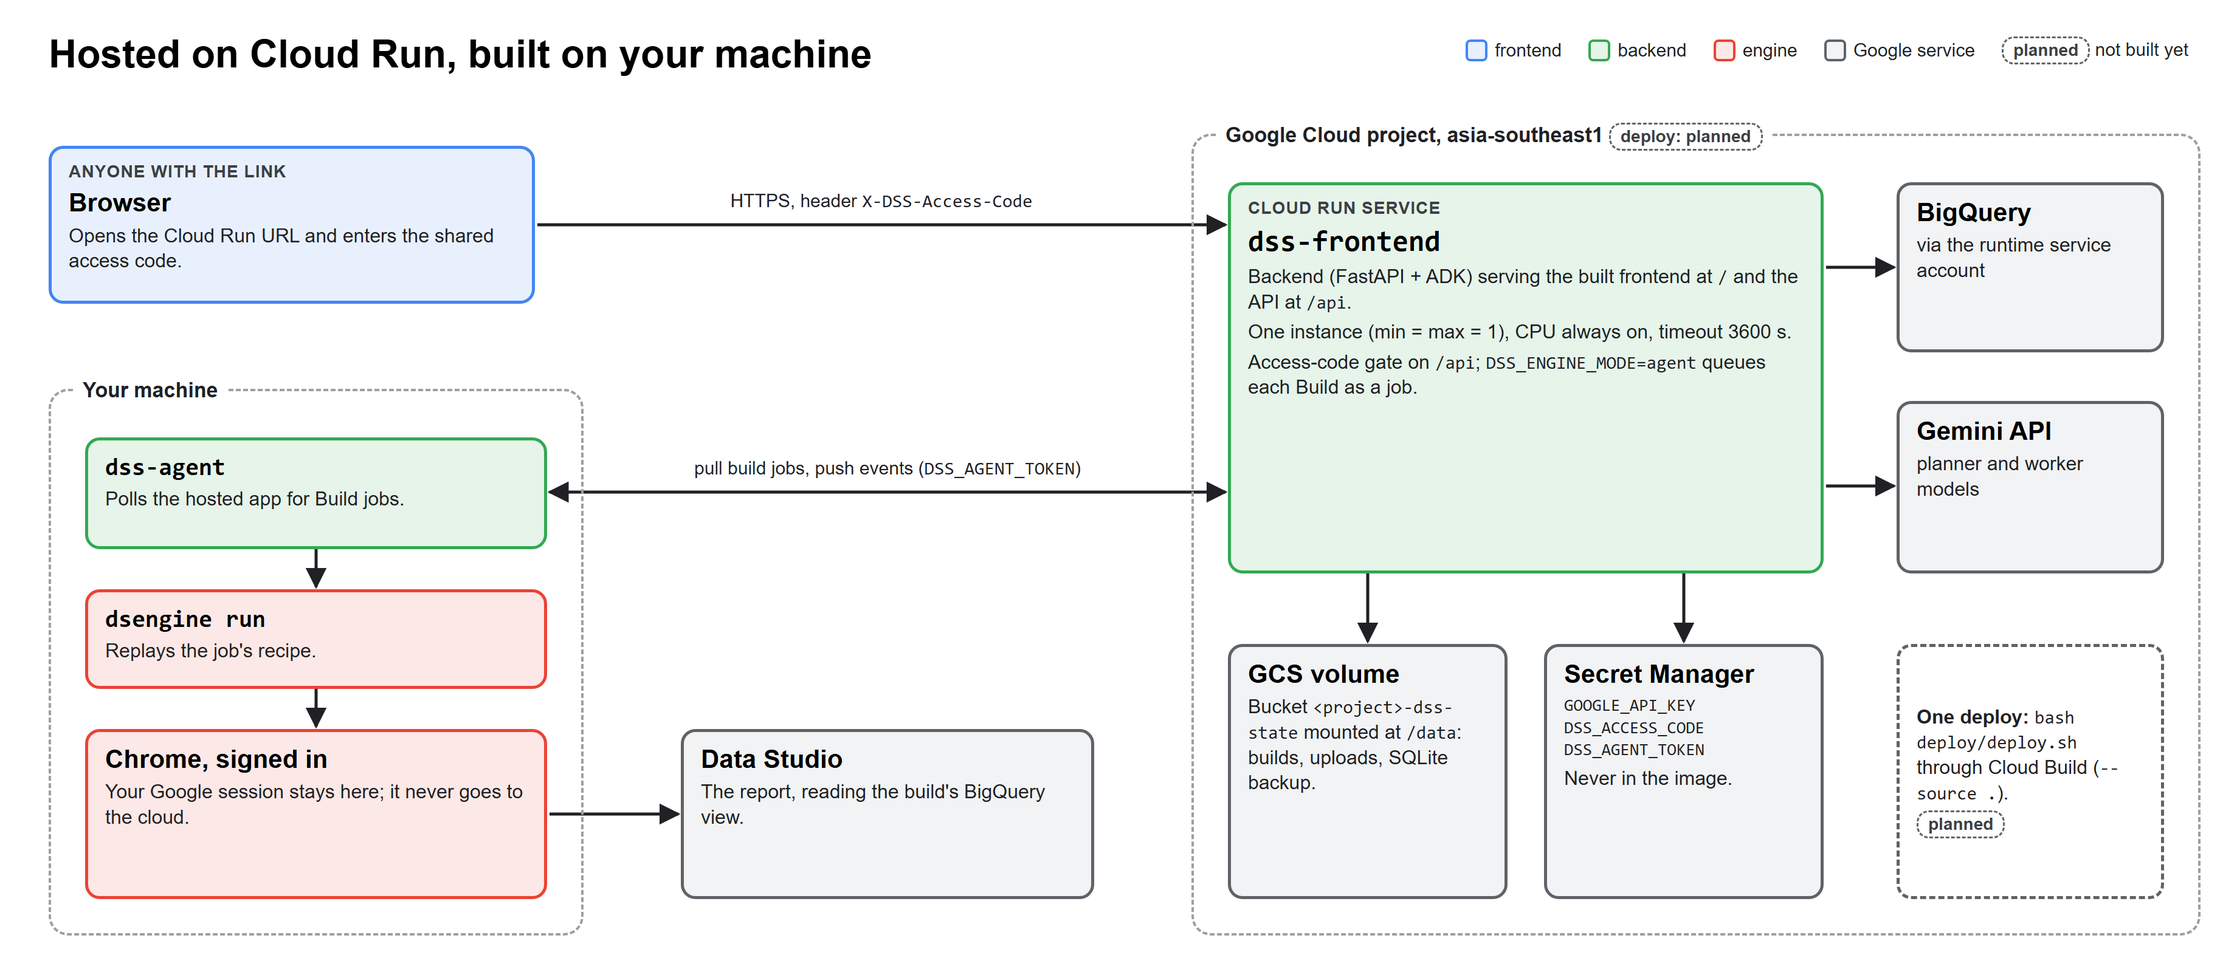
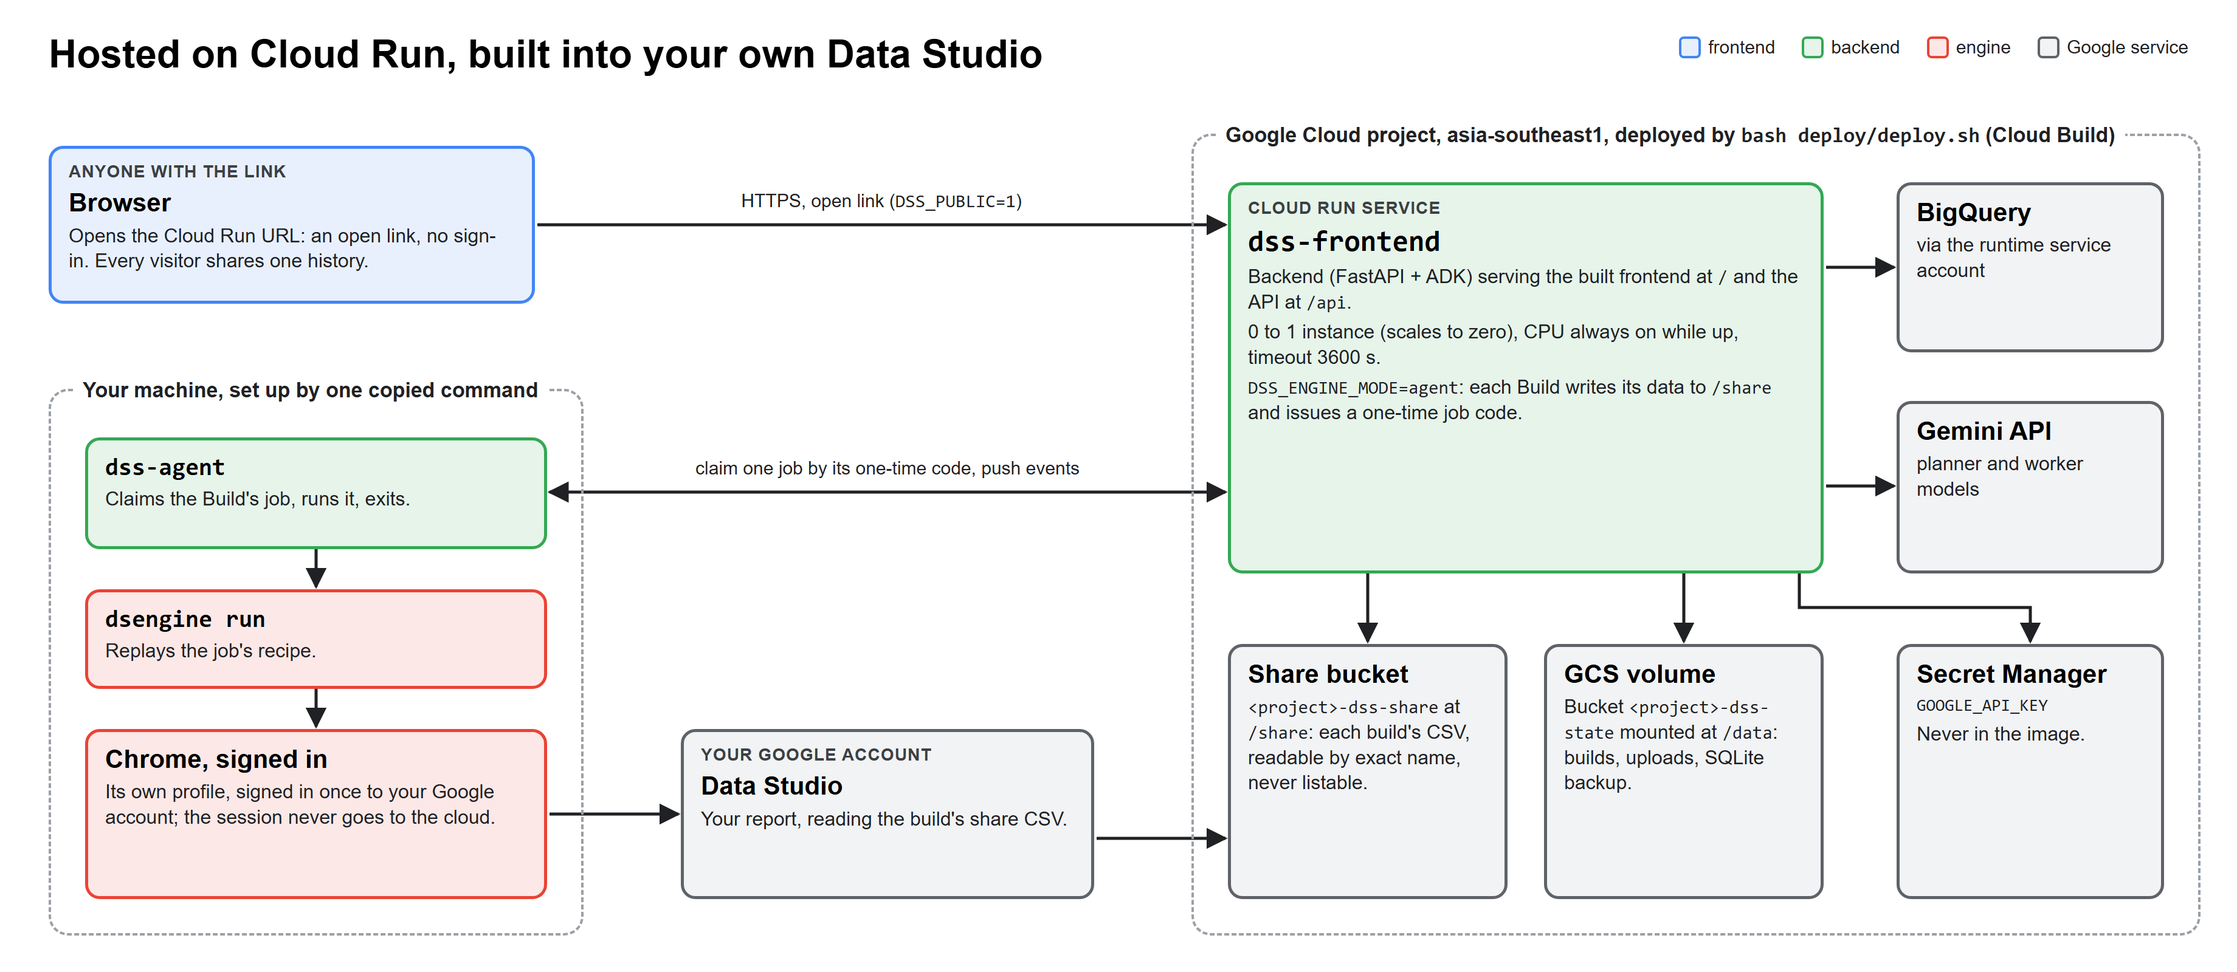
task 4.7: README hosted section and final push

diff --git a/deck/diagrams/d8-cloud-run.html b/deck/diagrams/d8-cloud-run.html
@@ -10,13 +10,12 @@
 </head>
 <body>
 <div class="canvas">
-  <div class="title">Hosted on Cloud Run, built on your machine</div>
+  <div class="title">Hosted on Cloud Run, built into your own Data Studio</div>
   <div class="legend">
     <span><span class="sw blue"></span>frontend</span>
     <span><span class="sw green"></span>backend</span>
     <span><span class="sw red"></span>engine</span>
     <span><span class="sw gray"></span>Google service</span>
-    <span><span class="tag planned">planned</span> not built yet</span>
   </div>
 
   <svg class="wires" viewBox="0 0 1840 800">
@@ -26,26 +25,28 @@
     <path class="w" d="M260,452 V483" marker-end="url(#a)"/>
     <path class="w" d="M260,567 V598" marker-end="url(#a)"/>
     <path class="w" d="M452,670 H558" marker-end="url(#a)"/>
+    <path class="w" d="M902,690 H1008" marker-end="url(#a)"/>
     <path class="w" d="M1125,472 V528" marker-end="url(#a)"/>
     <path class="w" d="M1385,472 V528" marker-end="url(#a)"/>
     <path class="w" d="M1502,220 H1558" marker-end="url(#a)"/>
     <path class="w" d="M1502,400 H1558" marker-end="url(#a)"/>
+    <path class="w" d="M1480,472 V500 H1670 V528" marker-end="url(#a)"/>
   </svg>
 
   <div class="box blue top" style="left:40px;top:120px;width:400px;height:130px">
     <div class="who">anyone with the link</div>
     <h3>Browser</h3>
-    <p>Opens the Cloud Run URL and enters the shared access code.</p>
+    <p>Opens the Cloud Run URL: an open link, no sign-in. Every visitor shares one history.</p>
   </div>
-  <div class="lbl c" style="left:725px;top:155px">HTTPS, header <span class="mono">X-DSS-Access-Code</span></div>
-  <div class="lbl c" style="left:730px;top:375px">pull build jobs, push events (<span class="mono">DSS_AGENT_TOKEN</span>)</div>
+  <div class="lbl c" style="left:725px;top:155px">HTTPS, open link (<span class="mono">DSS_PUBLIC=1</span>)</div>
+  <div class="lbl c" style="left:730px;top:375px">claim one job by its one-time code, push events</div>
 
   <div class="group" style="left:40px;top:320px;width:440px;height:450px">
-    <div class="glabel">Your machine</div>
+    <div class="glabel">Your machine, set up by one copied command</div>
   </div>
   <div class="box green top" style="left:70px;top:360px;width:380px;height:92px">
     <h3 class="mono" style="font-size:20px">dss-agent</h3>
-    <p>Polls the hosted app for Build jobs.</p>
+    <p>Claims the Build's job, runs it, exits.</p>
   </div>
   <div class="box red top" style="left:70px;top:485px;width:380px;height:82px">
     <h3 class="mono" style="font-size:20px">dsengine run</h3>
@@ -53,31 +54,31 @@
   </div>
   <div class="box red top" style="left:70px;top:600px;width:380px;height:140px">
     <h3>Chrome, signed in</h3>
-    <p>Your Google session stays here; it never goes to the cloud.</p>
+    <p>Its own profile, signed in once to your Google account; the session never goes to the cloud.</p>
   </div>
   <div class="box gray top" style="left:560px;top:600px;width:340px;height:140px">
+    <div class="who">your Google account</div>
     <h3>Data Studio</h3>
-    <p>The report, reading the build's BigQuery view.</p>
+    <p>Your report, reading the build's share CSV.</p>
   </div>
 
   <div class="group" style="left:980px;top:110px;width:830px;height:660px">
-    <div class="glabel">Google Cloud project, asia-southeast1 <span class="tag planned">deploy: planned</span></div>
+    <div class="glabel">Google Cloud project, asia-southeast1, deployed by <span class="mono">bash deploy/deploy.sh</span> (Cloud Build)</div>
   </div>
   <div class="box green top" style="left:1010px;top:150px;width:490px;height:322px">
     <div class="who">Cloud Run service</div>
     <h3 class="mono" style="font-size:24px">dss-frontend</h3>
     <p>Backend (FastAPI + ADK) serving the built frontend at <span class="mono">/</span> and the API at <span class="mono">/api</span>.</p>
-    <p>One instance (min = max = 1), CPU always on, timeout 3600 s.</p>
-    <p>Access-code gate on <span class="mono">/api</span>; <span class="mono">DSS_ENGINE_MODE=agent</span> queues each Build as a job.</p>
+    <p>0 to 1 instance (scales to zero), CPU always on while up, timeout 3600 s.</p>
+    <p><span class="mono">DSS_ENGINE_MODE=agent</span>: each Build writes its data to <span class="mono">/share</span> and issues a one-time job code.</p>
   </div>
   <div class="box gray top" style="left:1010px;top:530px;width:230px;height:210px">
-    <h3>GCS volume</h3>
-    <p>Bucket <span class="mono">&lt;project&gt;-dss-state</span> mounted at <span class="mono">/data</span>: builds, uploads, SQLite backup.</p>
+    <h3>Share bucket</h3>
+    <p><span class="mono">&lt;project&gt;-dss-share</span> at <span class="mono">/share</span>: each build's CSV, readable by exact name, never listable.</p>
   </div>
   <div class="box gray top" style="left:1270px;top:530px;width:230px;height:210px">
-    <h3>Secret Manager</h3>
-    <p class="mono" style="font-size:14px">GOOGLE_API_KEY<br>DSS_ACCESS_CODE<br>DSS_AGENT_TOKEN</p>
-    <p>Never in the image.</p>
+    <h3>GCS volume</h3>
+    <p>Bucket <span class="mono">&lt;project&gt;-dss-state</span> mounted at <span class="mono">/data</span>: builds, uploads, SQLite backup.</p>
   </div>
   <div class="box gray top" style="left:1560px;top:150px;width:220px;height:140px">
     <h3>BigQuery</h3>
@@ -87,8 +88,10 @@
     <h3>Gemini API</h3>
     <p>planner and worker models</p>
   </div>
-  <div class="box white plan" style="left:1560px;top:530px;width:220px;height:210px">
-    <p><b>One deploy:</b> <span class="mono">bash deploy/deploy.sh</span> through Cloud Build (<span class="mono">--source .</span>).</p><div class="tags"><span class="tag planned">planned</span></div>
+  <div class="box gray top" style="left:1560px;top:530px;width:220px;height:210px">
+    <h3>Secret Manager</h3>
+    <p class="mono" style="font-size:14px">GOOGLE_API_KEY</p>
+    <p>Never in the image.</p>
   </div>
 </div>
 </body>

diff --git a/integration/check_repo.py b/integration/check_repo.py
@@ -4,8 +4,9 @@
     uv run --project integration python integration/check_repo.py
 
 Checks the remote, .gitattributes, every tracked .env.example, the tracked paths, every path and
-blob in history, the history text for key patterns and for the .env secret values, nested
-repositories and that origin/main is an ancestor of HEAD. Read-only. Never prints a secret value:
+blob in history, the history text for key patterns and for the .env secret values, HEAD's tracked
+files for the private .env values (hosted URL, project number), nested repositories and that
+origin/main is an ancestor of HEAD. Read-only. Never prints a secret value:
 a hit names the commit and file only. Prints one PASS/FAIL line per check and exits 1 if any fails.
 """
 
@@ -22,6 +23,8 @@ EXAMPLE_EMPTY = ["GOOGLE_API_KEY", "DSS_ACCESS_CODE", "DSS_AGENT_TOKEN", "GCP_PR
                  "GCS_BUCKET", "DSS_TEMPLATE_REPORT_ID", "DSS_AGENT_SERVER", "DSS_CHROME_PATH",
                  "DSS_DB_PATH"]
 SECRET_NAMES = ["GOOGLE_API_KEY", "DSS_ACCESS_CODE", "DSS_AGENT_TOKEN"]
+# Private, not secret (change 2026-10-29): kept out of HEAD's tracked files; history predates the rule.
+PRIVATE_NAMES = ["DSS_AGENT_SERVER", "GCP_PROJECT_NUMBER"]
 # Split literals so this file never matches its own patterns once committed.
 KEY_PATTERNS = {
     "Google API key": re.compile(rb"AIza[0-9A-Za-z_-]{35}"),
@@ -183,10 +186,39 @@ def check_blob_sizes():
     return "no blob over 10 MB"
 
 
-def read_secret_values():
+def read_env_values(names):
     env_path = ROOT / ".env"
     values = parse_env(env_path.read_text(encoding="utf-8-sig")) if env_path.exists() else {}
-    return {name: values.get(name, "") for name in SECRET_NAMES}
+    return {name: values.get(name, "") for name in names}
+
+
+def private_needle(name, value):
+    """The URL's host (scheme and trailing slash dropped, so a bare host also hits); else the value."""
+    if name == "DSS_AGENT_SERVER":
+        value = re.sub(r"^[a-z]+://", "", value, flags=re.I).rstrip("/")
+    return value
+
+
+def check_head_private(private_values):
+    hits, checked, skipped = [], [], []
+    for name, value in private_values.items():
+        needle = private_needle(name, value)
+        if not needle:
+            skipped.append(f"{name} skipped (empty)")
+            continue
+        checked.append(name)
+        proc = git("grep", "-l", "-F", "-i", "-e", needle, "HEAD", check=False)
+        if proc.returncode not in (0, 1):
+            raise CheckFailed(f"git grep failed for {name}")
+        files = [line.split(":", 1)[1] for line in proc.stdout.decode("utf-8", errors="replace").splitlines() if line]
+        if files:
+            hits.append(f".env {name} value in " + ", ".join(files))
+    if hits:
+        raise CheckFailed("; ".join(hits))
+    note = f".env values not in HEAD's tracked files: {', '.join(checked) or 'none'}"
+    if skipped:
+        note += "; " + "; ".join(skipped)
+    return note
 
 
 def doc_mention(line, match):
@@ -302,12 +334,14 @@ def main():
     run("history paths", check_history_paths)
     run("blob sizes", check_blob_sizes)
     try:
-        secret_values = read_secret_values()
+        secret_values = read_env_values(SECRET_NAMES)
+        private_values = read_env_values(PRIVATE_NAMES)
     except Exception as e:
-        secret_values = None
+        secret_values = private_values = None
         results.append((False, "history text", f".env unreadable: {type(e).__name__}"))
     if secret_values is not None:
         run("history text", check_history_text, secret_values)
+        run("HEAD private values", check_head_private, private_values)
     run("nested repos", check_nested_repos)
     run("origin/main ancestor", check_ancestor)
 

diff --git a/README.md b/README.md
@@ -24,7 +24,7 @@ Known weaknesses: the screenshot run built a partial report (engine `partial`, 3
 - Component catalog: 12 bound component types (9 charts: scorecard, time_series, area, bar, pie, table, pivot_table, geo_map, scatter; 3 controls: date_range, dropdown, fixed_size_list) plus text and image.
 - History and new versions of every build.
 - Live activity strip with token counts.
-- Hosted access code with the local build agent (`dss-agent`).
+- Hosted on Cloud Run: Build gives a one-time code and one command that builds into your own Data Studio through the build agent (`dss-agent`).
 
 Measured on the live end-to-end run of 2026-10-21 ([deck/data/bench-2026-10-21-live.json](deck/data/bench-2026-10-21-live.json)): 33,851 input and 4,096 output tokens across context, outline, blueprint and comments.
 
@@ -46,7 +46,7 @@ Procedural memory is a set of skill files. Semantic memory is an OKF bundle the 
 
 ![Hosted on Cloud Run](deck/img/d8-cloud-run.png)
 
-The hosted target is the Cloud Run service `dss-frontend` in asia-southeast1, deployed through Cloud Build (the full-app deploy is in progress). State lives on a GCS volume, secrets in Secret Manager, data in BigQuery, models on the Gemini API. Google sessions never leave your machine: the local `dss-agent` pulls build jobs and drives Chrome, signed in, to Data Studio.
+The hosted app is the Cloud Run service `dss-frontend` in asia-southeast1, deployed through Cloud Build with `bash deploy/deploy.sh`. State lives on a GCS volume, the Gemini key in Secret Manager, data in BigQuery, models on the Gemini API. Each Build saves the build's data as one CSV in a share bucket and issues a one-time code. You run one command on your own machine: it sets up `dss-agent`, which claims that one job and drives its own Chrome, signed in to your Google account, to build the report in your Data Studio from the share CSV. Your Google session never leaves your machine.
 
 ## Screenshots
 
@@ -70,7 +70,17 @@ Recreated from a screenshot, on synthetic data (with known weaknesses).
 ## Links
 
 - GitHub: https://github.com/Gjandane/democratizing-google-data-studio
-- Hosted app: the link is shared privately with the judges (builds need the owner's agent online). The hosted app is being upgraded from the frontend preview to the full app.
+- Hosted app: the link is shared privately with the judges (never in this repo).
+
+## Use the hosted app
+
+- **Who gets in**: the link is open, with no sign-in, until the owner closes it after judging ends on 2026-11-07 ([deploy/README.md](deploy/README.md#close-the-link-after-2026-11-07)). Every visitor shares one history: you see and can change every build.
+- **Sources**: CSV upload, research, or a screenshot with synthetic data. GCS and BigQuery sources are locked on the hosted link; run it locally with `./start.sh` to use your own GCS or BigQuery.
+- **Build into your own Data Studio**: the Build stage gives a one-time code and one command to copy. Run it on your machine; it sets up the build agent and builds the report in the Data Studio of the Google account you sign in with. "Set up this computer" offers the same command with a check code, to install and sign in before the first build.
+- **Requirements**: Google Chrome. Windows is tested (PowerShell command); macOS and Linux are untested (bash command).
+- **First run**: it installs uv and the app into the install folder (`%LOCALAPPDATA%\dss-agent` on Windows, `~/.dss-agent` elsewhere) and asks you to sign in to Google once, in its own Chrome window. Later codes reuse the install and the sign-in. No Git, `.env` or GCP project is needed on your machine.
+- **Your data**: each build's data is saved as a CSV that anyone with its private link (it is in the recipe) can read, until the owner closes the link.
+- **Proven on the hosted app**: CSV upload (task 4.2) and screenshot with synthetic data (task 4.3) up to the compiled recipe, and the judge build into a second Google account's Data Studio (task 4.6, [docs/acceptance.md](docs/acceptance.md)). Builds from all five sources into Data Studio were proven locally (tasks 2.4 and 2.6; the screenshot build with the known weaknesses above).
 
 ## Run it locally
 
@@ -101,6 +111,25 @@ On Windows PowerShell: `.\start.ps1`.
 
 First-time Google sign-in: the Build stage's "Sign in to Google" button runs `dsengine login` (manual: from `engine/`, `uv run dsengine login`).
 
+## Deploy your own copy
+
+`deploy/deploy.sh` deploys over an existing Cloud Run service `dss-frontend` in asia-southeast1: before it changes anything it checks that the project has the number in `.env` and that the service serves the URL in `.env`. So the first time, create a placeholder service with Google's sample image, then put its URL and your project number in `.env`:
+
+```bash
+gcloud run deploy dss-frontend --image us-docker.pkg.dev/cloudrun/container/hello --region asia-southeast1 --allow-unauthenticated --project <GCP_PROJECT_ID>
+```
+
+Fill the root `.env`: `GCP_PROJECT_ID`, `GCP_PROJECT_NUMBER`, `DSS_AGENT_SERVER` (the service URL printed above), `GOOGLE_API_KEY` and `DSS_PUBLIC` (`1` for an open link). Then:
+
+```bash
+bash deploy/deploy.sh --dry-run   # prints every gcloud command, no secret values
+bash deploy/deploy.sh
+```
+
+It enables the APIs and creates, once: a state bucket mounted at `/data`, a share bucket for the builds' CSVs with a custom role that lets anyone read an object by its exact name (never list), a runtime service account, the build service account's `roles/run.builder` grant and the `GOOGLE_API_KEY` secret. Every run then builds the image through Cloud Build and sets the service in full: 0 to 1 instance (scales to zero), 2 vCPU / 2 GiB, env and secrets. It costs about USD 0.13 per hour while an instance is up, plus small Cloud Build, Artifact Registry, Secret Manager and storage charges. Uploads are limited to 32 MB.
+
+More in [deploy/README.md](deploy/README.md): [before you run it](deploy/README.md#before-you-run-it), [who gets in](deploy/README.md#who-gets-in), [closing the link](deploy/README.md#close-the-link-after-2026-11-07) and [teardown](deploy/README.md#tear-down).
+
 ## Demo walk-through
 
 Every source follows the same stages: New build, Connect, Context, Outline, Design, Blueprint, Prototype (click to comment), Build.
@@ -121,6 +150,8 @@ Every source follows the same stages: New build, Connect, Context, Outline, Desi
 - `deck/`: submission deck, diagrams and benchmark data.
 - `docs/`: this part's plan and the manual acceptance ([docs/acceptance.md](docs/acceptance.md)).
 - `samples/`: the sample CSV.
+- `agent-setup/`: the build agent's one-command setup (`setup.ps1`, `setup.sh`).
+- `deploy/`: the Cloud Run deploy (`deploy.sh`, [deploy/README.md](deploy/README.md)).
 - `start.sh`, `start.ps1`: start backend and frontend.
 
 Process: see [docs/program.md](docs/program.md).

diff --git a/docs/progress.md b/docs/progress.md
@@ -798,3 +798,15 @@ context. Task status lives in docs/plan.md, not here.
 - Gotchas: in AGENTS.md.
 - Left open: H2 (backend feasibility on hosted comments) for the architect; screenshots' bar/time-series charts blank (occlusion gotcha).
 - Next: Task 4.7 README hosted section and final push.
+
+## 2026-10-31: Task 4.7 README hosted section and final push
+- Status: done
+- Plan check: off
+- What changed: README.md: Features bullet, Cloud section, Links, new "Use the hosted app" and "Deploy your own copy" sections, folder map (agent-setup/, deploy/). d8 diagram + PNG: open link, visitor's agent builds into the visitor's Data Studio from the share CSV, share bucket, no planned tags. check_repo.py: new check "HEAD private values".
+- Checks: `curl -s "$DSS_AGENT_SERVER/api/health"` {"status":"ok"}; render_diagrams.py 8/8 rc 0, d8 `planned` count 0; `grep -niE "access code|owner's agent|in progress" README.md` none; check_repo.py after fetch PASS 10/10 (on 78bf6c6); negative test: scratch commit on a detached HEAD holding GCP_PROJECT_NUMBER -> FAIL HEAD private values, 9/10 rc 1, then back to main (unreferenced, not pushed); Test (all) check_contracts PASS 13/13. check_repo on this commit, push and ls-remote run right after it (session report).
+- Decisions: the private check matches the URL's host (scheme and trailing slash dropped, case-insensitive) via `git grep -l -F -i HEAD`; empty values are skipped with a note, as the history check does. README documents the first deploy: deploy.sh refuses unless `dss-frontend` already serves DSS_AGENT_SERVER, so a placeholder `gcloud run deploy ... --image us-docker.pkg.dev/cloudrun/container/hello` comes first (review P1). AGENTS.md: 1 gotcha (partial border render).
+- Digest: README sections "Use the hosted app" and "Deploy your own copy" (placeholder service first, then deploy.sh); check_repo.py PRIVATE_NAMES = DSS_AGENT_SERVER, GCP_PROJECT_NUMBER checked in HEAD's tracked files (`check_head_private`); d8 final (no planned tags).
+- Tried and failed: first d8 render left the GCP group's bottom border half drawn; a rerender fixed it.
+- Gotchas: in AGENTS.md.
+- Left open: P3 check_repo private check passes vacuously with no .env (same as the history check) - integration/check_repo.py.
+- Next: none in this plan (18/18). Close the hosted link after 2026-11-07 (deploy/README.md).

diff --git a/docs/plan.md b/docs/plan.md
@@ -197,7 +197,7 @@ Later; 2.7's committed driver code (label flip, analysis approval, .env.example 
   - If: the install or login step fails on this machine -> block naming the step and the script output (secrets masked); never sign in for the user.
   - If: the agent check fails on versions -> the install predates a version change: run the setup command with `-Update` (fresh main.zip, sign-in kept) and say so in the row; never delete the install folder or its Chrome profile.
   - If: the fresh build's view has no sum-only numeric column with NULLs -> H1 is not exercised: say so in the row and ask the user on the verdict card whether to accept or rerun with a comment that asks for a high-value (>= $1,000) revenue breakdown.
-- [ ] 4.7 README hosted section and final push
+- [x] 4.7 README hosted section and final push
   - Goal: README and the Cloud diagram describe the live hosted app, how a judge builds into their own Data Studio, and how to deploy your own copy, and the final version is pushed after the user confirms (renumbered from 4.4, change 2026-10-29 local agent per judge).
   - Files: README.md, deck/diagrams/d8-cloud-run.html, deck/img/d8-cloud-run.png, integration/check_repo.py
   - Depends on: 4.6

diff --git a/AGENTS.md b/AGENTS.md
@@ -108,3 +108,4 @@ Traps that cost an earlier session time and that the other docs don't cover, one
 - Agent check/job codes expire 30 min after the Build view shows them: give the user the command only when they're ready; reload the build page (Continue to build) for a new check code.
 - The share CSV's folder isn't in any trace API response: list `<project>-dss-share` objects via ADC REST and match `timeCreated` to the `execute` trace's `started_at` (same second).
 - Built-in browser `javascript_tool` aborts after 45 s: keep in-page polls under ~40 s, or poll the API from a background Bash loop.
+- `render_diagrams.py` can paint a `.group`'s dashed border only in part (seen on d8, 2026-10-31) while still printing `ok`: look at each PNG you own and rerender if an edge is missing.
